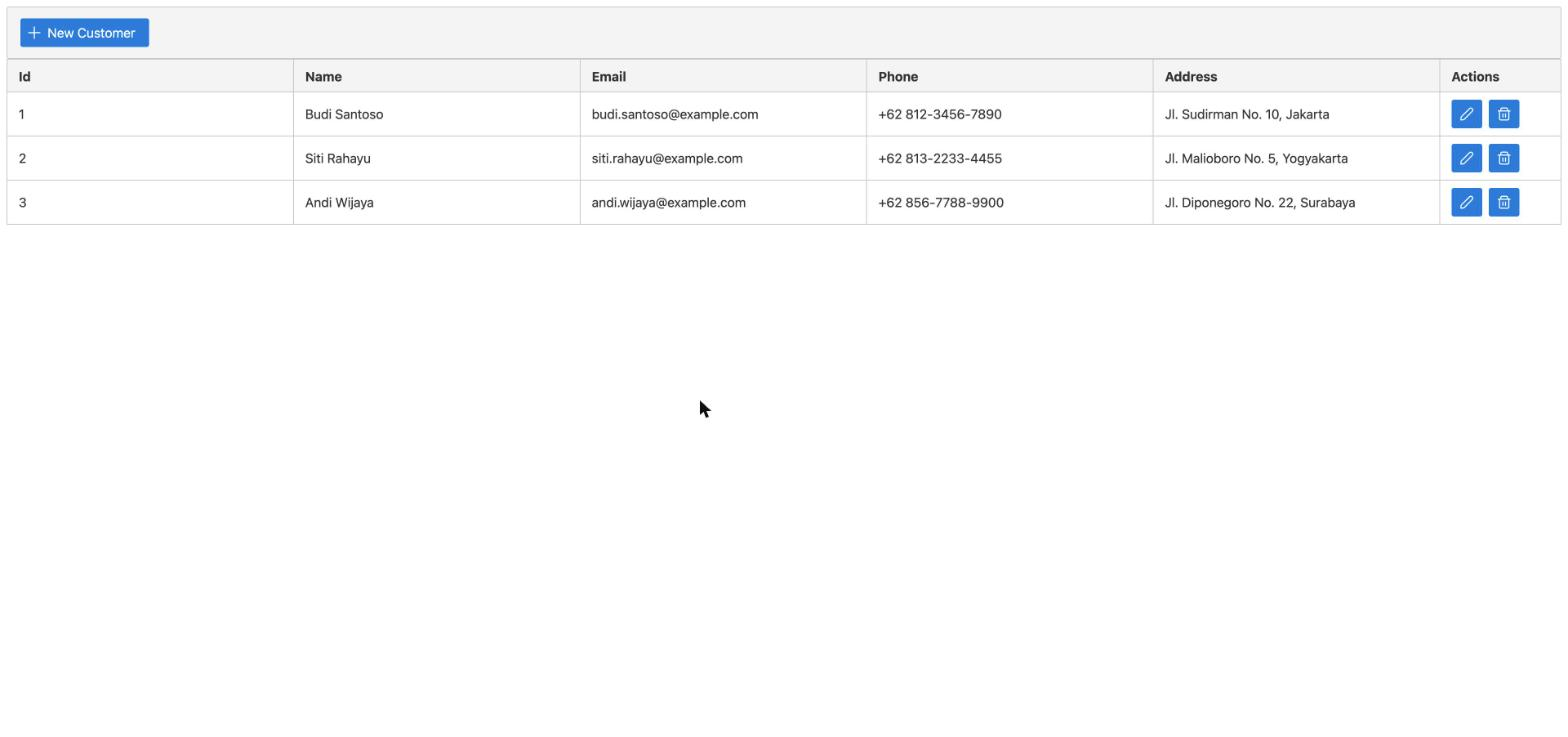
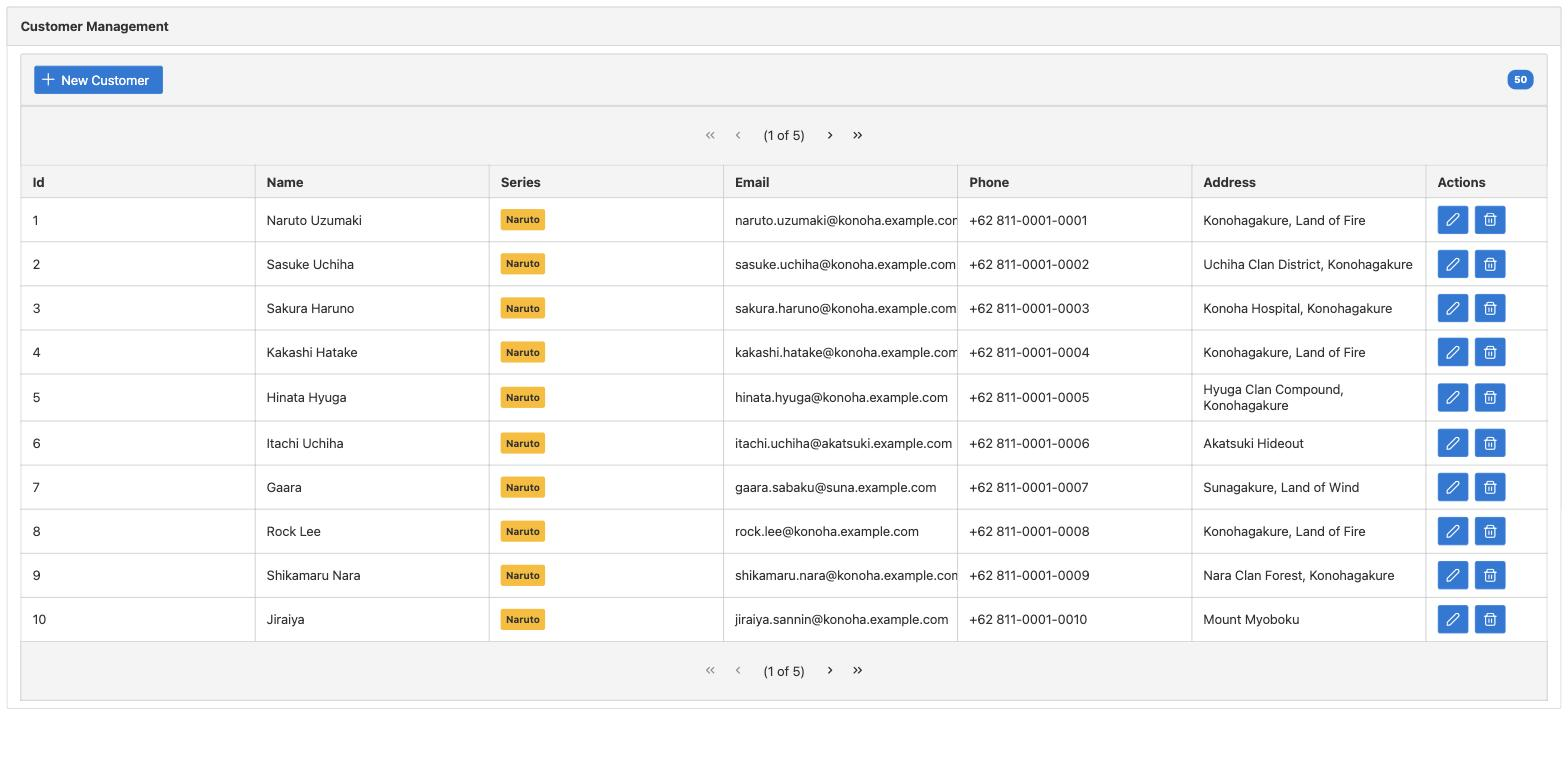
docs: add more screenshots to README
Refreshes the customer list screenshot to reflect the new panel,
badge, pagination, and series tags, and adds screenshots of the
create dialog, edit dialog, and delete confirmation dialog.

📸🖼📚

diff --git a/README.md b/README.md
@@ -5,6 +5,16 @@ in-memory H2 database.
 
 ![Customer list screenshot](docs/images/customer-list.jpg)
 
+## Screenshots
+
+| Customer list | Create customer |
+|---|---|
+| ![Customer list](docs/images/customer-list.jpg) | ![Create customer dialog](docs/images/create-customer-dialog.jpg) |
+
+| Edit customer | Delete confirmation |
+|---|---|
+| ![Edit customer dialog](docs/images/edit-customer-dialog.jpg) | ![Delete confirmation dialog](docs/images/delete-confirm-dialog.jpg) |
+
 ## Tech Stack
 
 - Java 25
@@ -19,9 +29,11 @@ in-memory H2 database.
 ## Features
 
 - List, create, update, and delete customers
-- PrimeFaces data table with an edit/create dialog
-- Auto-created schema on startup (`Hibernate ddl-auto: update`)
+- PrimeFaces data table with pagination, series tags, and an edit/create dialog
+- Delete guarded by a confirmation dialog
+- Auto-created schema on startup (`Hibernate ddl-auto: update`), seeded with 50 sample customers
 - H2 web console for inspecting the database
+- Custom SVG favicon
 
 ## Prerequisites
 
